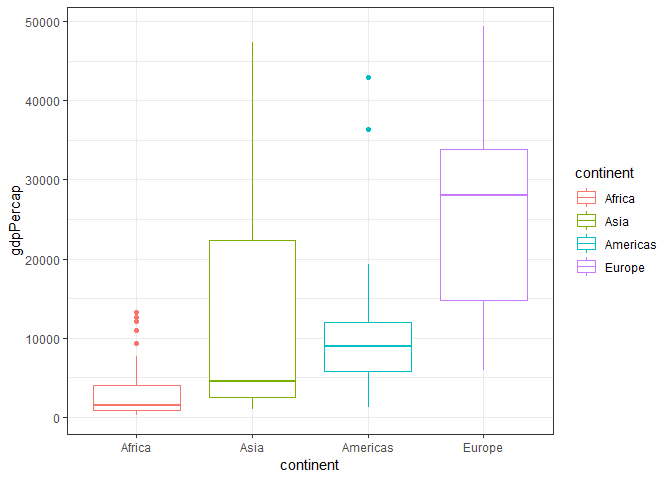
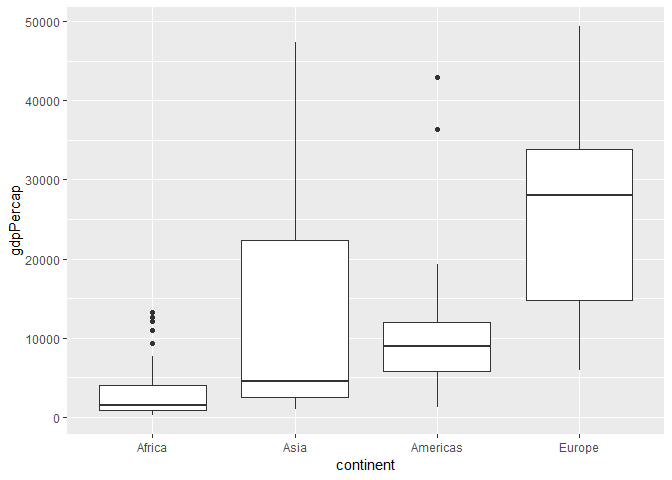
started part 4

diff --git a/hw05-cbnicolau.md b/hw05-cbnicolau.md
@@ -18,6 +18,7 @@ Load required libraries
 library(gapminder)
 library(tidyverse)
 library(forcats)
+library(gridExtra)
 ```
 
 Part 1: Factor management
@@ -91,7 +92,7 @@ nlevels(gapminder_notOceania$continent)
 
     ## [1] 5
 
-We can see from looking at the structure that `Oceania` is still a level of the `continent` factor, and the number of levels in `contient` is still 5, but because `gapminder_notOceania` has fewer observations (1680 rows) that the unmodified `gapminder` (1704 rows), we can see that we effectively filtered out all the cuntries in Oceania
+We can see from looking at the structure that `Oceania` is still a level of the `continent` factor, and the number of levels in `contient` is still 5, but because `gapminder_notOceania` has fewer observations (1680 rows) than the unmodified `gapminder` (1704 rows), we can see that we effectively filtered out all the cuntries in Oceania
 
 Let's confirm this with a plot:
 
@@ -132,8 +133,7 @@ gapminder_notOceania %>%
   filter(year == 2007) %>%
   mutate(continent = fct_reorder(continent,gdpPercap)) %>% #reorder according to the median, increasing
   ggplot(aes(continent, gdpPercap)) +
-  geom_boxplot(aes(color = continent)) +
-  theme_bw()
+  geom_boxplot(aes())
 ```
 
 ![](hw05-cbnicolau_files/figure-markdown_github/reorder%20median-1.png)
@@ -141,17 +141,16 @@ gapminder_notOceania %>%
 Now let's try reordering according to the mean
 
 ``` r
-gapminder_notOceania %>%
+gapminder_NO <- gapminder_notOceania %>%
   filter(year == 2007) %>%
   mutate(continent = fct_reorder(continent,gdpPercap, mean)) %>% #reorder according to the mean, increasing
   ggplot(aes(continent, gdpPercap)) +
-  geom_boxplot(aes(color = continent)) +
-  theme_bw()
+  geom_boxplot(aes()) 
+
+gapminder_NO
 ```
 
 ![](hw05-cbnicolau_files/figure-markdown_github/reorder_mean-1.png)
-
-Be sure to also characterize the (derived) data before and after your factor re-leveling:
 
 1.  Explore the effects of arrange(). Does merely arranging the data have any effect on, say, a figure?
 
@@ -179,7 +178,7 @@ ggplot(arranged_gapminder, aes(x = gdpPercap , y = country)) +
 
 ![](hw05-cbnicolau_files/figure-markdown_github/arranged-1.png)
 
-When only using arrange and saving to the object it doesn't seem to make any difference for the plot, Lets inspect this object:
+When only using `arrange()` and saving to the object it doesn't seem to make any difference for the plot. Let's inspect this object:
 
 ``` r
 arranged_gapminder %>%
@@ -224,12 +223,12 @@ We see that `arrange()`does arrange the items in the order we wanted, it's just 
 
 1.  Explore the effects of reordering a factor and factor reordering coupled with arrange(). Especially, what effect does this have on a figure?
 
-Let's now use `reorder()` to sort the countries by ascending `gdpPercap`
+Let's now use `fct_reorder()` to sort the countries by ascending `gdpPercap`
 
 ``` r
 reordered_gapminder <- gapminder %>%
   filter(year == 2007) %>%
-  mutate(country = reorder(country, gdpPercap))
+  mutate(country = fct_reorder(country, gdpPercap))
   
 ggplot(reordered_gapminder, aes(x = gdpPercap , y = country)) +
   geom_point()
@@ -280,17 +279,155 @@ reordered_gapminder %>%
 
 Looking at the table it seems like the actual data has not been sorted.
 
+Now let's couple `fct_reorder()` with `arrange()`
+
+``` r
+reordered_arranged_gapminder <- gapminder %>%
+  filter(year == 2007) %>%
+  mutate(country = fct_reorder(country, gdpPercap)) %>%
+  arrange(gdpPercap)
+  
+ggplot(reordered_arranged_gapminder, aes(x = gdpPercap , y = country)) +
+  geom_point()
+```
+
+![](hw05-cbnicolau_files/figure-markdown_github/unnamed-chunk-7-1.png)
+
+``` r
+reordered_arranged_gapminder %>%
+  head(30) %>%
+  knitr::kable()
+```
+
+| country                  | continent |  year|  lifeExp|        pop|  gdpPercap|
+|:-------------------------|:----------|-----:|--------:|----------:|----------:|
+| Congo, Dem. Rep.         | Africa    |  2007|   46.462|   64606759|   277.5519|
+| Liberia                  | Africa    |  2007|   45.678|    3193942|   414.5073|
+| Burundi                  | Africa    |  2007|   49.580|    8390505|   430.0707|
+| Zimbabwe                 | Africa    |  2007|   43.487|   12311143|   469.7093|
+| Guinea-Bissau            | Africa    |  2007|   46.388|    1472041|   579.2317|
+| Niger                    | Africa    |  2007|   56.867|   12894865|   619.6769|
+| Eritrea                  | Africa    |  2007|   58.040|    4906585|   641.3695|
+| Ethiopia                 | Africa    |  2007|   52.947|   76511887|   690.8056|
+| Central African Republic | Africa    |  2007|   44.741|    4369038|   706.0165|
+| Gambia                   | Africa    |  2007|   59.448|    1688359|   752.7497|
+| Malawi                   | Africa    |  2007|   48.303|   13327079|   759.3499|
+| Mozambique               | Africa    |  2007|   42.082|   19951656|   823.6856|
+| Sierra Leone             | Africa    |  2007|   42.568|    6144562|   862.5408|
+| Rwanda                   | Africa    |  2007|   46.242|    8860588|   863.0885|
+| Togo                     | Africa    |  2007|   58.420|    5701579|   882.9699|
+| Somalia                  | Africa    |  2007|   48.159|    9118773|   926.1411|
+| Guinea                   | Africa    |  2007|   56.007|    9947814|   942.6542|
+| Myanmar                  | Asia      |  2007|   62.069|   47761980|   944.0000|
+| Afghanistan              | Asia      |  2007|   43.828|   31889923|   974.5803|
+| Comoros                  | Africa    |  2007|   65.152|     710960|   986.1479|
+| Mali                     | Africa    |  2007|   54.467|   12031795|  1042.5816|
+| Madagascar               | Africa    |  2007|   59.443|   19167654|  1044.7701|
+| Uganda                   | Africa    |  2007|   51.542|   29170398|  1056.3801|
+| Nepal                    | Asia      |  2007|   63.785|   28901790|  1091.3598|
+| Tanzania                 | Africa    |  2007|   52.517|   38139640|  1107.4822|
+| Haiti                    | Americas  |  2007|   60.916|    8502814|  1201.6372|
+| Burkina Faso             | Africa    |  2007|   52.295|   14326203|  1217.0330|
+| Zambia                   | Africa    |  2007|   42.384|   11746035|  1271.2116|
+| Ghana                    | Africa    |  2007|   60.022|   22873338|  1327.6089|
+| Bangladesh               | Asia      |  2007|   64.062|  150448339|  1391.2538|
+
+Using both functions seems to work for the actual data too (not only the figure).
+
 Part 2: File I/O
 ----------------
 
 Experiment with one or more of write\_csv()/read\_csv() (and/or TSV friends), saveRDS()/readRDS(), dput()/dget(). Create something new, probably by filtering or grouped-summarization of Singer or Gapminder. I highly recommend you fiddle with the factor levels, i.e. make them non-alphabetical (see previous section). Explore whether this survives the round trip of writing to file then reading back in.
 
-Let's save the `arranged_gapminder` dataset in a new `.csv` file.
+Let's save the `reordered_arranged_gapminder` dataset in a new `.csv` file.
+
+``` r
+write_csv(reordered_arranged_gapminder, "RA_gapminder.csv")
+```
+
+Let's read it now
+
+``` r
+RA_gapminder <- read_csv("RA_gapminder.csv")
+```
+
+    ## Parsed with column specification:
+    ## cols(
+    ##   country = col_character(),
+    ##   continent = col_character(),
+    ##   year = col_integer(),
+    ##   lifeExp = col_double(),
+    ##   pop = col_integer(),
+    ##   gdpPercap = col_double()
+    ## )
+
+``` r
+head(RA_gapminder, 30) %>%
+  knitr::kable()
+```
+
+| country                  | continent |  year|  lifeExp|        pop|  gdpPercap|
+|:-------------------------|:----------|-----:|--------:|----------:|----------:|
+| Congo, Dem. Rep.         | Africa    |  2007|   46.462|   64606759|   277.5519|
+| Liberia                  | Africa    |  2007|   45.678|    3193942|   414.5073|
+| Burundi                  | Africa    |  2007|   49.580|    8390505|   430.0707|
+| Zimbabwe                 | Africa    |  2007|   43.487|   12311143|   469.7093|
+| Guinea-Bissau            | Africa    |  2007|   46.388|    1472041|   579.2317|
+| Niger                    | Africa    |  2007|   56.867|   12894865|   619.6769|
+| Eritrea                  | Africa    |  2007|   58.040|    4906585|   641.3695|
+| Ethiopia                 | Africa    |  2007|   52.947|   76511887|   690.8056|
+| Central African Republic | Africa    |  2007|   44.741|    4369038|   706.0165|
+| Gambia                   | Africa    |  2007|   59.448|    1688359|   752.7497|
+| Malawi                   | Africa    |  2007|   48.303|   13327079|   759.3499|
+| Mozambique               | Africa    |  2007|   42.082|   19951656|   823.6856|
+| Sierra Leone             | Africa    |  2007|   42.568|    6144562|   862.5408|
+| Rwanda                   | Africa    |  2007|   46.242|    8860588|   863.0885|
+| Togo                     | Africa    |  2007|   58.420|    5701579|   882.9699|
+| Somalia                  | Africa    |  2007|   48.159|    9118773|   926.1411|
+| Guinea                   | Africa    |  2007|   56.007|    9947814|   942.6542|
+| Myanmar                  | Asia      |  2007|   62.069|   47761980|   944.0000|
+| Afghanistan              | Asia      |  2007|   43.828|   31889923|   974.5803|
+| Comoros                  | Africa    |  2007|   65.152|     710960|   986.1479|
+| Mali                     | Africa    |  2007|   54.467|   12031795|  1042.5816|
+| Madagascar               | Africa    |  2007|   59.443|   19167654|  1044.7701|
+| Uganda                   | Africa    |  2007|   51.542|   29170398|  1056.3801|
+| Nepal                    | Asia      |  2007|   63.785|   28901790|  1091.3598|
+| Tanzania                 | Africa    |  2007|   52.517|   38139640|  1107.4822|
+| Haiti                    | Americas  |  2007|   60.916|    8502814|  1201.6372|
+| Burkina Faso             | Africa    |  2007|   52.295|   14326203|  1217.0330|
+| Zambia                   | Africa    |  2007|   42.384|   11746035|  1271.2116|
+| Ghana                    | Africa    |  2007|   60.022|   22873338|  1327.6089|
+| Bangladesh               | Asia      |  2007|   64.062|  150448339|  1391.2538|
 
 Part 3: Visualization design
 ----------------------------
 
 Remake at least one figure or create a new one, in light of something you learned in the recent class meetings about visualization design and color. Maybe juxtapose your first attempt and what you obtained after some time spent working on it. Reflect on the differences. If using Gapminder, you can use the country or continent color scheme that ships with Gapminder. Consult the dimensions listed in All the Graph Things.
+
+``` r
+gapminder_NO2 <- gapminder_notOceania %>% #save into new object
+  filter(year == 2007) %>%
+  mutate(continent = fct_reorder(continent,gdpPercap, mean)) %>% #reorder according to the mean, increasing
+  ggplot(aes(continent, gdpPercap)) +
+  geom_jitter(aes(color = continent), alpha = 0.2) +
+  geom_boxplot(aes(color = continent)) +
+  scale_y_log10(breaks = 10^(1:6)) +
+  theme_minimal() +
+  theme(legend.position="none")
+
+compare_plots <- grid.arrange(gapminder_NO, gapminder_NO2, ncol = 2)
+```
+
+![](hw05-cbnicolau_files/figure-markdown_github/unnamed-chunk-10-1.png)
+
+``` r
+compare_plots
+```
+
+    ## TableGrob (1 x 2) "arrange": 2 grobs
+    ##   z     cells    name           grob
+    ## 1 1 (1-1,1-1) arrange gtable[layout]
+    ## 2 2 (1-1,2-2) arrange gtable[layout]
 
 Then, make a new graph by converting this visual (or another, if you’d like) to a plotly graph. What are some things that plotly makes possible, that are not possible with a regular ggplot2 graph?
 
@@ -302,3 +439,11 @@ Use ggsave() to explicitly save a plot to file. Then use `![Alt text](/path/to/i
 -   Arguments of ggsave(), such as width, height, resolution or text scaling.
 -   Various graphics devices, e.g. a vector vs. raster format.
 -   Explicit provision of the plot object p via ggsave(..., plot = p). - Show a situation in which this actually matters.
+
+Let's save the comparison plot into a file
+
+``` r
+ggsave("compare_plots.png", compare_plots, width = 10, height = 7)
+```
+
+And call it to embed it to the report [like this](C:/Users/const/ownCloud/UBC%20Courses/5%20Term%201%202018/STAT545A/git_docs/hw05-cbnicolau/compare_plots.png)
